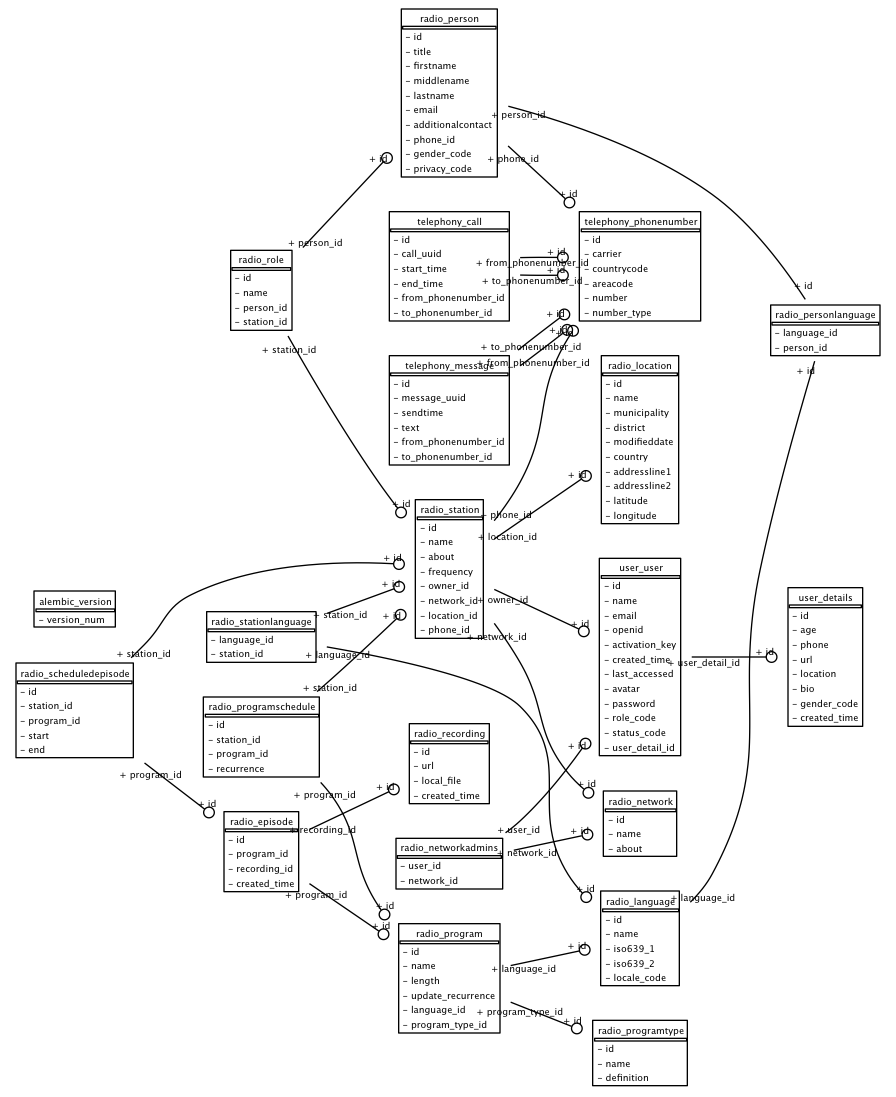
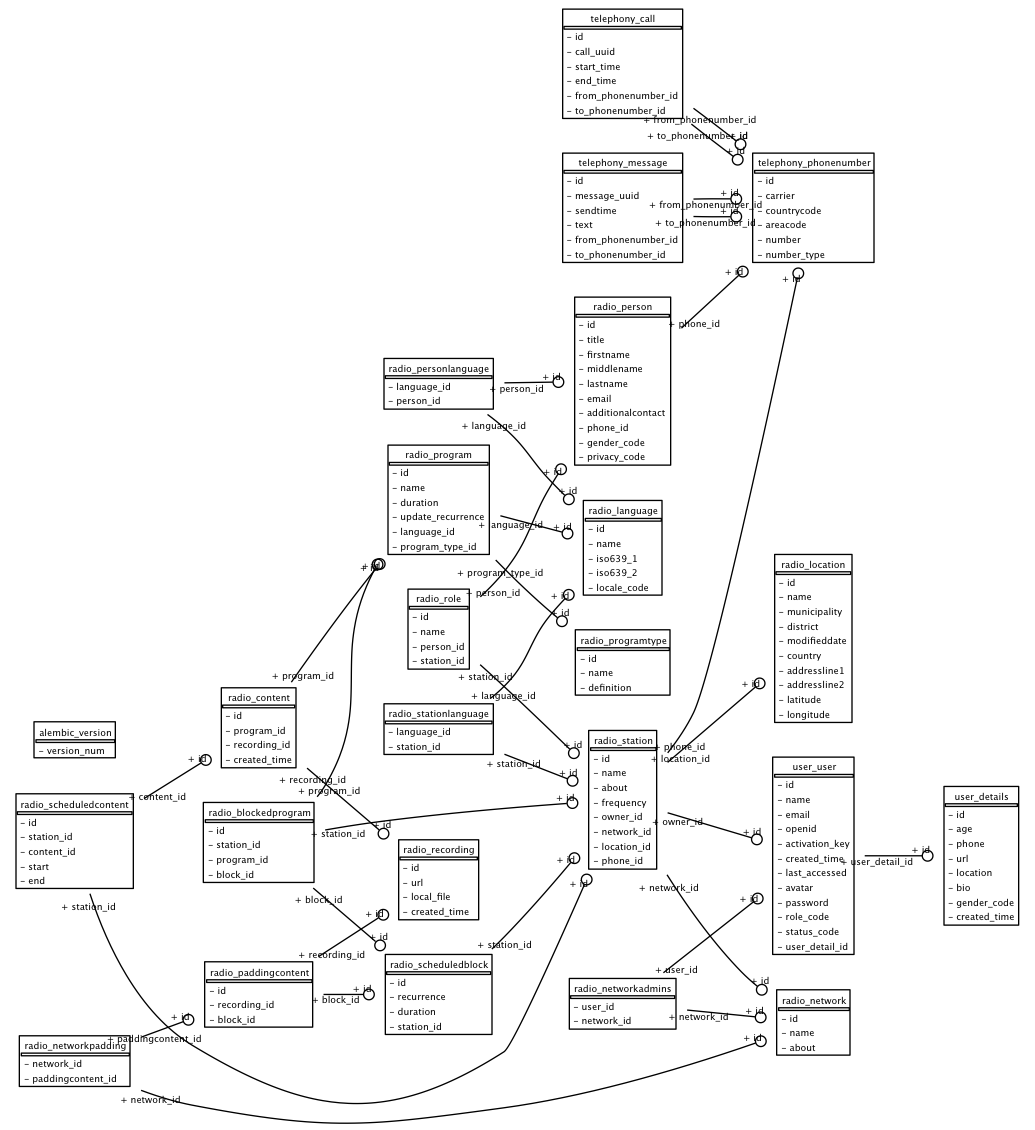
add schedule blocks, padding content, rename episode to content

diff --git a/rootio/radio/models.py b/rootio/radio/models.py
@@ -79,8 +79,8 @@ class Station(db.Model):
     owner = db.relationship(u'User')
     location = db.relationship(u'Location')
     phone = db.relationship(u'PhoneNumber')
-    schedules = db.relationship(u'ProgramSchedule', backref=db.backref('station'))
-    scheduled_episodes = db.relationship(u'ScheduledEpisode', backref=db.backref('station'))
+    blocks = db.relationship(u'ScheduledBlock', backref=db.backref('station'))
+    scheduled_content = db.relationship(u'ScheduledContent', backref=db.backref('station'))
     languages = db.relationship(u'Language', secondary=u'radio_stationlanguage', backref=db.backref('stations'))
 
     @property
@@ -118,18 +118,18 @@ class Program(db.Model):
     id = db.Column(db.Integer, primary_key=True)
     name = db.Column(db.String(STRING_LEN),
         nullable=False)
-    length = db.Column(db.Time)
-    update_recurrence = db.Column(db.Text()) #when new episodes are available
+    duration = db.Column(db.Time)
+    update_recurrence = db.Column(db.Text()) #when new content updates are available
 
     language_id = db.Column(db.ForeignKey('radio_language.id'))
     program_type_id = db.Column(db.ForeignKey('radio_programtype.id'))
 
-    episodes = db.relationship('Episode', backref=db.backref('program'), lazy='dynamic')
+    contents = db.relationship('Content', backref=db.backref('program'), lazy='dynamic')
 
 
-class Episode(db.Model):
-    "A particular instance of a program"
-    __tablename__ = 'radio_episode'
+class Content(db.Model):
+    "A particular instance of a program, or other broadcasted audio content"
+    __tablename__ = 'radio_content'
 
     id = db.Column(db.Integer, primary_key=True)
     program_id = db.Column(db.ForeignKey('radio_program.id'))
@@ -139,25 +139,60 @@ class Episode(db.Model):
     recording = db.relationship(u'Recording')
 
 
-class ProgramSchedule(db.Model):
-    "A commitment by a station to air a program on a recurring schedule"
-    __tablename__ = "radio_programschedule"
+class ScheduledBlock(db.Model):
+    """A block of similar programs, with a recurrence rule and duration.
+    Similar to advertising 'dayparts'
+    """
+    __tablename__ = "radio_scheduledblock"
+    id = db.Column(db.Integer, primary_key = True)
+    recurrence = db.Column(db.Text()) #iCal rrule format, RFC2445 4.8.5.4
+    duration = db.Column(db.Time)
+    #start / end?
+    station_id = db.Column(db.ForeignKey('radio_station.id'))
+
+
+class BlockedProgram(db.Model):
+    "A commitment by a station to air a program in a block"
+    __tablename__ = "radio_blockedprogram"
     id = db.Column(db.Integer, primary_key=True)
     station_id = db.Column(db.ForeignKey('radio_station.id'))
     program_id = db.Column(db.ForeignKey('radio_program.id'))
-    recurrence = db.Column(db.Text()) #iCal rrule format, RFC2445 4.8.5.4
+    block_id = db.Column(db.ForeignKey('radio_scheduledblock.id'))
+    #order / priority
 
+    scheduled_block = db.relationship(u'ScheduledBlock')
     program = db.relationship(u'Program')
 
 
-class ScheduledEpisode(db.Model):
-    "An episode scheduled to air on a station at a time"
-    __tablename__ = "radio_scheduledepisode"
+class ScheduledContent(db.Model):
+    """Content scheduled to air on a station at a time.
+    Read these in order to determine a station's next to air."""
+    __tablename__ = "radio_scheduledcontent"
     id = db.Column(db.Integer, primary_key=True)
     station_id = db.Column(db.ForeignKey('radio_station.id'))
-    program_id = db.Column(db.ForeignKey('radio_episode.id'))
+    content_id = db.Column(db.ForeignKey('radio_content.id'))
     start = db.Column(db.DateTime)
     end = db.Column(db.DateTime)
+
+
+class PaddingContent(db.Model):
+    """An advertisement or PSA to run on a network in a block.
+    Actual air schedule to be determined by the scheduler."""
+    __tablename__ = "radio_paddingcontent"
+    id = db.Column(db.Integer, primary_key=True)
+    recording_id = db.Column(db.ForeignKey('radio_recording.id'))
+    block_id = db.Column(db.ForeignKey('radio_scheduledblock.id'))
+    #sponsoring org?
+
+    block = db.relationship(u'ScheduledBlock')
+    networks = db.relationship(u'Network', secondary=u'radio_networkpadding', backref=db.backref('paddingcontents'))
+
+
+t_networkpadding = db.Table(
+    u'radio_networkpadding',
+    db.Column(u'network_id', db.ForeignKey('radio_network.id')),
+    db.Column(u'paddingcontent_id', db.ForeignKey('radio_paddingcontent.id'))
+)
 
 
 class Recording(db.Model):
@@ -198,11 +233,13 @@ class Person(db.Model):
     def privacy(self):
         return PRIVACY_TYPE.get(self.privacy_code)
 
+    #user_id
+
 
 t_personlanguage = db.Table(
     u'radio_personlanguage',
-    db.Column(u'language_id', db.ForeignKey('radio_language.id'), primary_key=True),
-    db.Column(u'person_id', db.ForeignKey('radio_person.id'), primary_key=True)
+    db.Column(u'language_id', db.ForeignKey('radio_language.id')),
+    db.Column(u'person_id', db.ForeignKey('radio_person.id'))
 )
 
 class Role(db.Model):
@@ -213,4 +250,5 @@ class Role(db.Model):
     name = db.Column(db.String)
 
     person_id = db.Column(db.ForeignKey('radio_person.id'))
+    #add program_id
     station_id = db.Column(db.ForeignKey('radio_station.id'))

diff --git a/rootio/radio/views.py b/rootio/radio/views.py
@@ -5,7 +5,7 @@ import os
 from flask import g, Blueprint, render_template, request, flash, Response, json
 from flask.ext.login import login_required, current_user
 
-from .models import Station, Program, Episode
+from .models import Station, Program, Content
 from .forms import StationForm, ProgramForm
 
 from ..extensions import db
